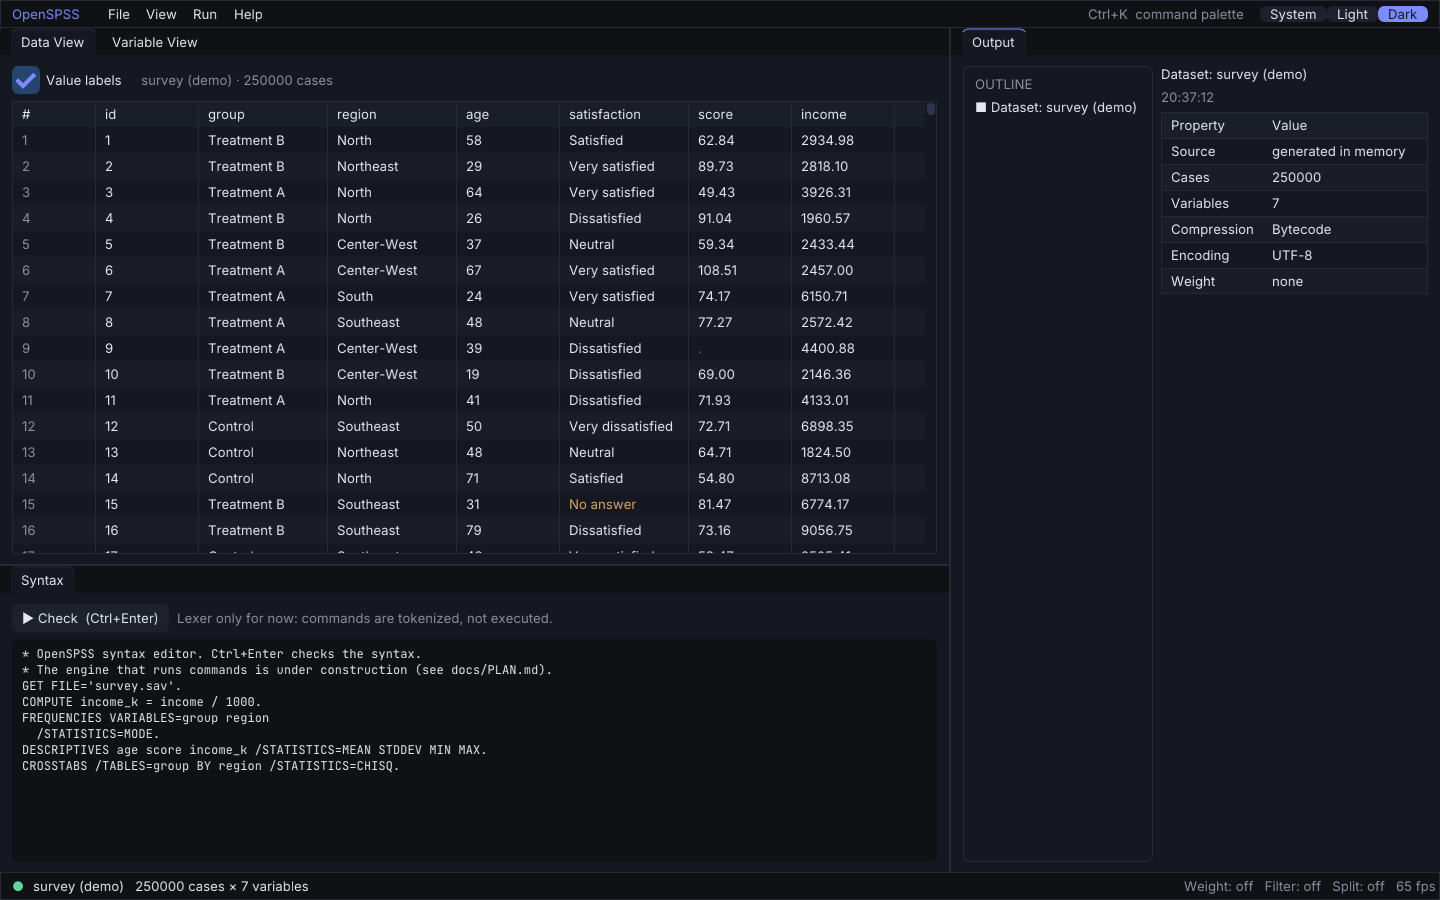
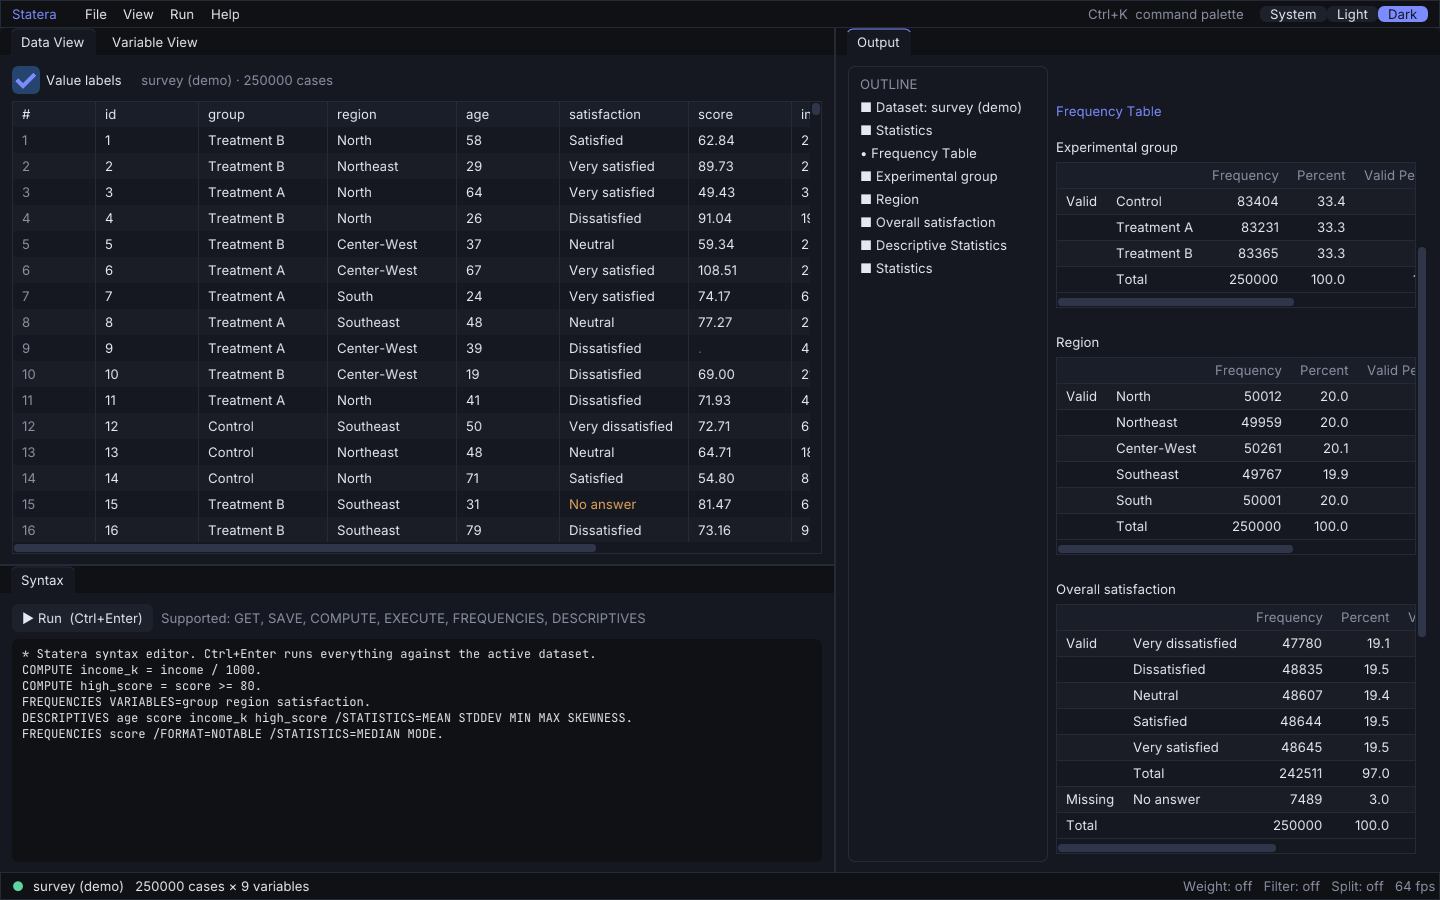
Rename project to Statera (avoid the IBM SPSS trademark in the name)

diff --git a/scripts/golden/spss_reads.py b/scripts/golden/spss_reads.py
@@ -3,7 +3,7 @@
 Run with the Python bundled with SPSS:
     "C:\\Program Files\\IBM\\SPSS\\Statistics\\25\\Python3\\python.exe" scripts/golden/spss_reads.py file.sav [...]
 
-Used to verify files written by OpenSPSS. Must stay compatible with Python 3.4.
+Used to verify files written by Statera. Must stay compatible with Python 3.4.
 """
 import sys
 

diff --git a/README.md b/README.md
@@ -1,16 +1,18 @@
-# OpenSPSS
+# Statera
 
-An open-source statistics package that aims to **behave exactly like IBM SPSS Statistics**: same syntax, same file formats, same numbers. It's written from scratch in [Odin](https://odin-lang.org) for speed and uses a modern [Dear ImGui](https://github.com/ocornut/imgui) interface in place of the legacy Swing look.
+*Latin for "balance, scales": an open-source, SPSS-compatible statistics package.*
 
-> **Status:** pre-alpha. Planning and reverse-engineering phase. Nothing usable yet.
+Statera aims to **behave exactly like IBM SPSS Statistics**: same syntax, same file formats, same numbers. It's written from scratch in [Odin](https://odin-lang.org) for speed and uses a modern [Dear ImGui](https://github.com/ocornut/imgui) interface in place of the legacy Swing look.
 
-> OpenSPSS is an independent project. It is not affiliated with, endorsed by, or sponsored by IBM. "IBM" and "SPSS" are trademarks of IBM Corp., used here only to describe compatibility.
+> **Status:** pre-alpha. `.sav` read/write, `GET`, `SAVE`, `COMPUTE`, `FREQUENCIES` and `DESCRIPTIVES` work, and their output matches SPSS 25 cell for cell in the golden tests.
+
+> Statera is an independent project. It is not affiliated with, endorsed by, or sponsored by IBM. "IBM" and "SPSS" are trademarks of IBM Corp., used here only to describe compatibility.
 
 ---
 
 ## Why
 
-SPSS is the default tool in many universities, hospitals and research labs. It's also expensive, closed and slow, and its UI dates from the early 2000s. OpenSPSS wants to be a drop-in replacement:
+SPSS is the default tool in many universities, hospitals and research labs. It's also expensive, closed and slow, and its UI dates from the early 2000s. Statera wants to be a drop-in replacement:
 
 - **Run your existing `.sps` syntax unchanged** and get the same results.
 - **Open and save `.sav`, `.zsav`, `.por` and `.spv`** files with full fidelity, including value labels, missing values, measurement levels and documents.
@@ -21,7 +23,7 @@ SPSS is the default tool in many universities, hospitals and research labs. It's
 
 ### What about GNU PSPP?
 
-[PSPP](https://www.gnu.org/software/pspp/) is the existing free SPSS alternative, and its documentation of the system-file formats is an excellent public reference. OpenSPSS differs in three ways: it targets full procedure coverage with numerically matched output, a modern high-performance UI, and first-class automation and AI support. We read PSPP's *documentation*. We don't copy its GPL code, so OpenSPSS can choose its own license.
+[PSPP](https://www.gnu.org/software/pspp/) is the existing free SPSS alternative, and its documentation of the system-file formats is an excellent public reference. Statera differs in three ways: it targets full procedure coverage with numerically matched output, a modern high-performance UI, and first-class automation and AI support. We read PSPP's *documentation*. We don't copy its GPL code, so Statera can choose its own license.
 
 ---
 
@@ -68,7 +70,7 @@ tests/golden/    # golden tests against reference output
 
 ## Modern UI
 
-The legacy SPSS UI is functional but cramped. OpenSPSS keeps the familiar mental model (Data View, Variable View, Syntax, Output) and modernizes how it's presented:
+The legacy SPSS UI is functional but cramped. Statera keeps the familiar mental model (Data View, Variable View, Syntax, Output) and modernizes how it's presented:
 
 - Docking workspace: arrange data, syntax and output side by side, and save layouts.
 - Dark and light themes, accent colors, crisp scalable fonts, and full high-DPI support.
@@ -82,11 +84,11 @@ The legacy SPSS UI is functional but cramped. OpenSPSS keeps the familiar mental
 
 ## AI & MCP support
 
-OpenSPSS ships an automation layer so LLM agents, notebooks and scripts can use it as a stats engine.
+Statera ships an automation layer so LLM agents, notebooks and scripts can use it as a stats engine.
 
 ### MCP server
 
-Run `openspss mcp` (stdio) or enable it in the app (streamable HTTP on localhost). Planned tools:
+Run `statera mcp` (stdio) or enable it in the app (streamable HTTP on localhost). Planned tools:
 
 | Tool | Description |
 |---|---|
@@ -103,7 +105,7 @@ Resources expose the active dataset dictionary and the output document. Prompts 
 
 ### Local API
 
-Running `openspss serve` exposes the same operations as a JSON-over-HTTP API, for Python, R or JS clients. A thin Python client (`pip install openspss`) is planned, so `import openspss` covers the common `spss` module workflows.
+Running `statera serve` exposes the same operations as a JSON-over-HTTP API, for Python, R or JS clients. A thin Python client (`pip install statera`) is planned, so `import statera` covers the common `spss` module workflows.
 
 ### In-app assistant (optional, bring your own key)
 
@@ -132,7 +134,7 @@ The detailed, living plan is in [`docs/PLAN.md`](docs/PLAN.md).
 
 ## Clean-room reverse engineering
 
-OpenSPSS learns how SPSS *behaves* using [rea](https://github.com/morluto/rea), an MCP server for reverse engineering. It never ships or transliterates IBM code. The process is in [AGENTS.md](AGENTS.md#clean-room-reverse-engineering). In short:
+Statera learns how SPSS *behaves* using [rea](https://github.com/morluto/rea), an MCP server for reverse engineering. It never ships or transliterates IBM code. The process is in [AGENTS.md](AGENTS.md#clean-room-reverse-engineering). In short:
 
 1. **Analysts** observe behavior (black-box runs, file-format inspection, static analysis) and write **specs in their own words** in `docs/specs/`.
 2. **Implementers** write Odin code from those specs, public literature, and IBM's published algorithm documentation.
@@ -146,7 +148,7 @@ Reverse engineering for interoperability is lawful in many jurisdictions but res
 
 | Dark | Light |
 |---|---|
-| ![OpenSPSS dark theme](docs/images/ui-dark.png) | ![OpenSPSS light theme](docs/images/ui-light.png) |
+| ![Statera dark theme](docs/images/ui-dark.png) | ![Statera light theme](docs/images/ui-light.png) |
 
 The theme follows your OS by default. Switch it with the System / Light / Dark control in the menu bar or with `Ctrl+Shift+T`.
 
@@ -156,11 +158,11 @@ Requirements: the [Odin compiler](https://odin-lang.org/docs/install/) (dev-2026
 
 ```powershell
 scripts/setup_imgui.ps1     # once: fetch and build Dear ImGui bindings into vendor/imgui
-scripts/build.ps1           # build/openspss.exe (add -Release for an optimized, console-less build)
+scripts/build.ps1           # build/statera.exe (add -Release for an optimized, console-less build)
 scripts/gate.ps1            # checks + tests; run before every push
 ```
 
-`build/openspss.exe [file.sav] [--light|--dark]` opens a data file. You can also drag a `.sav` onto the window. Linux and macOS build scripts will follow with the release pipeline.
+`build/statera.exe [file.sav] [--light|--dark]` opens a data file. You can also drag a `.sav` onto the window. Linux and macOS build scripts will follow with the release pipeline.
 
 ## Contributing
 

diff --git a/docs/PLAN.md b/docs/PLAN.md
@@ -1,4 +1,4 @@
-# OpenSPSS: master plan
+# Statera: master plan
 
 This is the living plan for rewriting SPSS Statistics as a behavior-compatible, open-source Odin application. Rules for working on it are in [AGENTS.md](../AGENTS.md). Engine architecture findings from reverse engineering are in [specs/architecture.md](specs/architecture.md).
 
@@ -21,7 +21,7 @@ This is the living plan for rewriting SPSS Statistics as a behavior-compatible, 
 - every output table as OMS XML (full-precision `number` plus the displayed `text`)
 - any files the syntax saves (`.sav`, `.zsav`, …)
 
-OpenSPSS runs the same `case.sps`. The golden runner compares table structure, displayed text (must be exact) and numbers (within the per-procedure tolerance). Every procedure gets cases for normal data, edge cases (empty, all-missing, ties, weights, splits, huge/tiny values) and error paths.
+Statera runs the same `case.sps`. The golden runner compares table structure, displayed text (must be exact) and numbers (within the per-procedure tolerance). Every procedure gets cases for normal data, edge cases (empty, all-missing, ties, weights, splits, huge/tiny values) and error paths.
 
 ## Architecture
 
@@ -87,14 +87,14 @@ The engine is a library. `app/`, `automation/` and the CLI are its clients, and 
 - [ ] Dialogs for the Phase 4 procedures, with live syntax preview
 
 ### Phase 6: automation and AI
-- [ ] `openspss run file.sps` batch CLI
-- [ ] MCP server (`openspss mcp`, stdio + streamable HTTP): `open_dataset`, `describe_dataset`, `get_cases`, `run_syntax`, `validate_syntax`, `explain_command`, `get_output`, `export_output`
-- [ ] Local JSON API (`openspss serve`) + thin Python client
+- [ ] `statera run file.sps` batch CLI
+- [ ] MCP server (`statera mcp`, stdio + streamable HTTP): `open_dataset`, `describe_dataset`, `get_cases`, `run_syntax`, `validate_syntax`, `explain_command`, `get_output`, `export_output`
+- [ ] Local JSON API (`statera serve`) + thin Python client
 - [ ] Optional in-app assistant: plain language → syntax (shown before running), "explain this table"
 
 ### Phase 7: first release
 - [ ] Release workflow on tag `v*`: builds on all three OSes, then attaches installers to a GitHub Release
-  - Windows: Inno Setup installer (`OpenSPSS-<ver>-setup.exe`), file associations for `.sav`/`.sps`
+  - Windows: Inno Setup installer (`Statera-<ver>-setup.exe`), file associations for `.sav`/`.sps`
   - macOS: `.app` bundle in a `.dmg` (universal or per-arch); signing/notarization once we have a cert
   - Linux: AppImage + `.deb`, desktop entry and MIME types
 - [ ] Release notes page listing every build and checksums (SHA-256)
